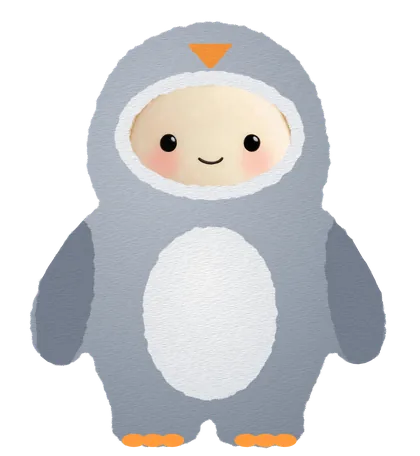
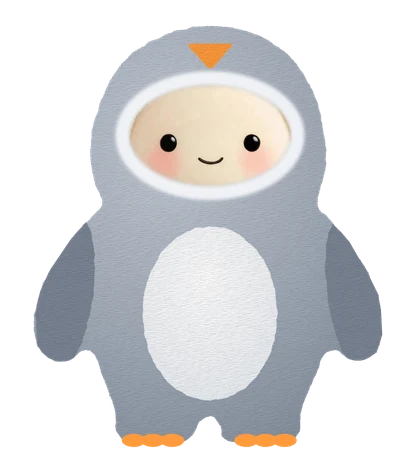
Softer, snugger outfits with rounded collars; mascot wears the closet outfit
Claude-Session: https://claude.ai/code/session_015zikV9PqUBiyz3XPGeiexa

diff --git a/index.html b/index.html
@@ -193,6 +193,7 @@
   .punchy { position: fixed; z-index: 15; width: var(--psz, 108px); height: var(--psz, 108px); touch-action: none; user-select: none; -webkit-user-select: none; cursor: grab; transform-origin: 100% 100%; transition: transform .5s cubic-bezier(.3,.7,.3,1); filter: drop-shadow(0 3px 3px rgba(0,0,0,.28)); }
   @media (max-width: 600px) { :root { --psz: 85px; } }
   /* Punchy is one size whether he stands, types, waves or flips (no jump in size). */
+  .punchy.dressed .rig { display: none !important; } .punchy.dressed .rest { display: block !important; }
   .punchy.dragging { cursor: grabbing; transition: none; }
   .punchy[hidden], .pocketpill[hidden] { display: none; }
   .pk { position: absolute; inset: 0; }
@@ -2726,18 +2727,19 @@
   var CLOSET_CATS = [["all", "All"], ["costume", "Costumes"], ["top", "Tops"], ["pj", "Pajamas"]];
   function showCloset() {
     state.rerender = showCloset; state.pendingTab = "more";
+    if (!state.closetWear) { try { state.closetWear = localStorage.getItem("oneplace.outfit") || "bare"; } catch (e) {} }
     var cat = state.closetCat || "all", wear = state.closetWear || "bare";
     var cur = null; CLOSET.forEach(function (c) { if (c.id === wear) cur = c; });
     var stage = h("div", { class: "closet-stage", "data-testid": "closet-stage" }, [
       h("img", { src: "/assets/closet/" + (cur ? cur.id : "bare") + ".webp", alt: cur ? "Punchy wearing " + cur.name : "Punchy with no outfit" }),
       h("h2", { text: cur ? cur.name : "Punchy" }),
-      cur ? h("button", { type: "button", class: "quiet small", "data-testid": "closet-off", text: "Take it off", onclick: function () { state.closetWear = "bare"; showCloset(); } }) : h("p", { class: "hint", text: "Pick an outfit below to try it on." })
+      cur ? h("button", { type: "button", class: "quiet small", "data-testid": "closet-off", text: "Take it off", onclick: function () { state.closetWear = "bare"; setOutfit(null); showCloset(); } }) : h("p", { class: "hint", text: "Pick an outfit below to try it on." })
     ]);
     var chips = h("div", { class: "chips", role: "group", "aria-label": "Outfit type" }, CLOSET_CATS.map(function (c) {
       return h("button", { type: "button", class: "chip", "aria-pressed": String(cat === c[0]), text: c[1], onclick: function () { state.closetCat = c[0]; showCloset(); } });
     }));
     var grid = h("div", { class: "closet-grid", "data-testid": "closet-grid" }, CLOSET.filter(function (c) { return cat === "all" || c.cat === cat; }).map(function (c) {
-      return h("button", { type: "button", class: "closet-tile", "data-testid": "closet-tile", "aria-pressed": String(wear === c.id), onclick: function () { state.closetWear = c.id; showCloset(); window.scrollTo(0, 0); } }, [
+      return h("button", { type: "button", class: "closet-tile", "data-testid": "closet-tile", "aria-pressed": String(wear === c.id), onclick: function () { state.closetWear = c.id; setOutfit(c.id); showCloset(); window.scrollTo(0, 0); } }, [
         h("img", { src: "/assets/closet/" + c.id + ".webp", alt: "", loading: "lazy" }), c.name]);
     }));
     state.backTo = showMore;
@@ -3586,6 +3588,20 @@ function plushSvg(k, label) { return '<svg viewBox="0 0 200 200" role="img" aria
     + '<path d="M455 575 C395 340 560 172 800 168 C1040 172 1205 340 1145 575" fill="none" stroke="#b8590f" stroke-width="40" stroke-linecap="round" opacity=".55"/><path d="M455 575 C395 340 560 172 800 168 C1040 172 1205 340 1145 575" fill="none" stroke="url(#hp)" stroke-width="30" stroke-linecap="round"/>'
     + '<g><ellipse cx="452" cy="612" rx="60" ry="88" fill="#b8590f"/><ellipse cx="456" cy="610" rx="50" ry="78" fill="url(#hp)"/><ellipse cx="440" cy="590" rx="14" ry="30" fill="#fff" opacity=".28"/><ellipse cx="1148" cy="612" rx="60" ry="88" fill="#b8590f"/><ellipse cx="1144" cy="610" rx="50" ry="78" fill="url(#hp)"/><ellipse cx="1132" cy="590" rx="14" ry="30" fill="#fff" opacity=".28"/></g>'
     + '<ellipse cx="800" cy="1346" rx="360" ry="26" fill="#000" opacity=".16"/><rect x="480" y="1118" width="640" height="220" rx="30" fill="url(#lap)" stroke="#8d949c" stroke-width="5"/><rect x="480" y="1318" width="640" height="26" rx="12" fill="#8d949c"/><circle cx="800" cy="1228" r="22" fill="#f2f4f6" opacity=".7"/></svg>';
+  // The little helper wears whatever outfit was picked in the closet (standing pose only while dressed).
+  function setOutfit(id) {
+    try { if (id && id !== "bare") localStorage.setItem("oneplace.outfit", id); else localStorage.removeItem("oneplace.outfit"); } catch (e) {}
+    applyOutfit();
+  }
+  function applyOutfit() {
+    var el = punchy.el; if (!el) return;
+    var img = el.querySelector(".rest"); if (!img) return;
+    if (!punchy.baseSrc) punchy.baseSrc = img.getAttribute("src");
+    var id = null; try { id = localStorage.getItem("oneplace.outfit"); } catch (e) {}
+    var ok = id && CLOSET.some(function (c) { return c.id === id; });
+    if (ok) { img.src = "/assets/closet/m-" + id + ".webp"; el.classList.add("dressed"); }
+    else { img.src = punchy.baseSrc; el.classList.remove("dressed"); }
+  }
   function punchyBuild() {
     var el = h("div", { class: "punchy noprint", "data-testid": "punchy", role: "img", "aria-label": "Punchy, the little helper" });
     el.innerHTML = '<div class="pk"><img class="rest" alt="" src="' + PUNCHY_IMG.full + '"><div class="rig" style="position:absolute;inset:0"><img class="body" alt="" src="' + PUNCHY_IMG.noarm + '"></div></div>';
@@ -3640,7 +3656,7 @@ function plushSvg(k, label) { return '<svg viewBox="0 0 200 200" role="img" aria
     var st = lsGetJson(PUNCHY_KEY, {});
     punchy.x = typeof st.x === "number" ? st.x : null; punchy.y = typeof st.y === "number" ? st.y : null;
     punchy.pocket = !!st.pocket; punchy.seenWave = !!st.seenWave; punchy.seenFlip = !!st.seenFlip; punchy.typing = false;
-    var el = punchy.el = punchyBuild(); document.body.appendChild(el);
+    var el = punchy.el = punchyBuild(); document.body.appendChild(el); applyOutfit();
     punchy.link = h("button", { type: "button", class: "pocketlink noprint", text: "tuck me in \uD83D\uDCA4", "data-testid": "punchy-pocket", hidden: true, onclick: function () { punchyPocket(true); } }); document.body.appendChild(punchy.link);
     punchy.pill = h("button", { type: "button", class: "pocketpill noprint", text: "Punchy is napping \u00b7 tap to wake", "data-testid": "punchy-restore", hidden: true, onclick: function () { punchyPocket(false); } }); document.body.appendChild(punchy.pill);
     var drag = null;
